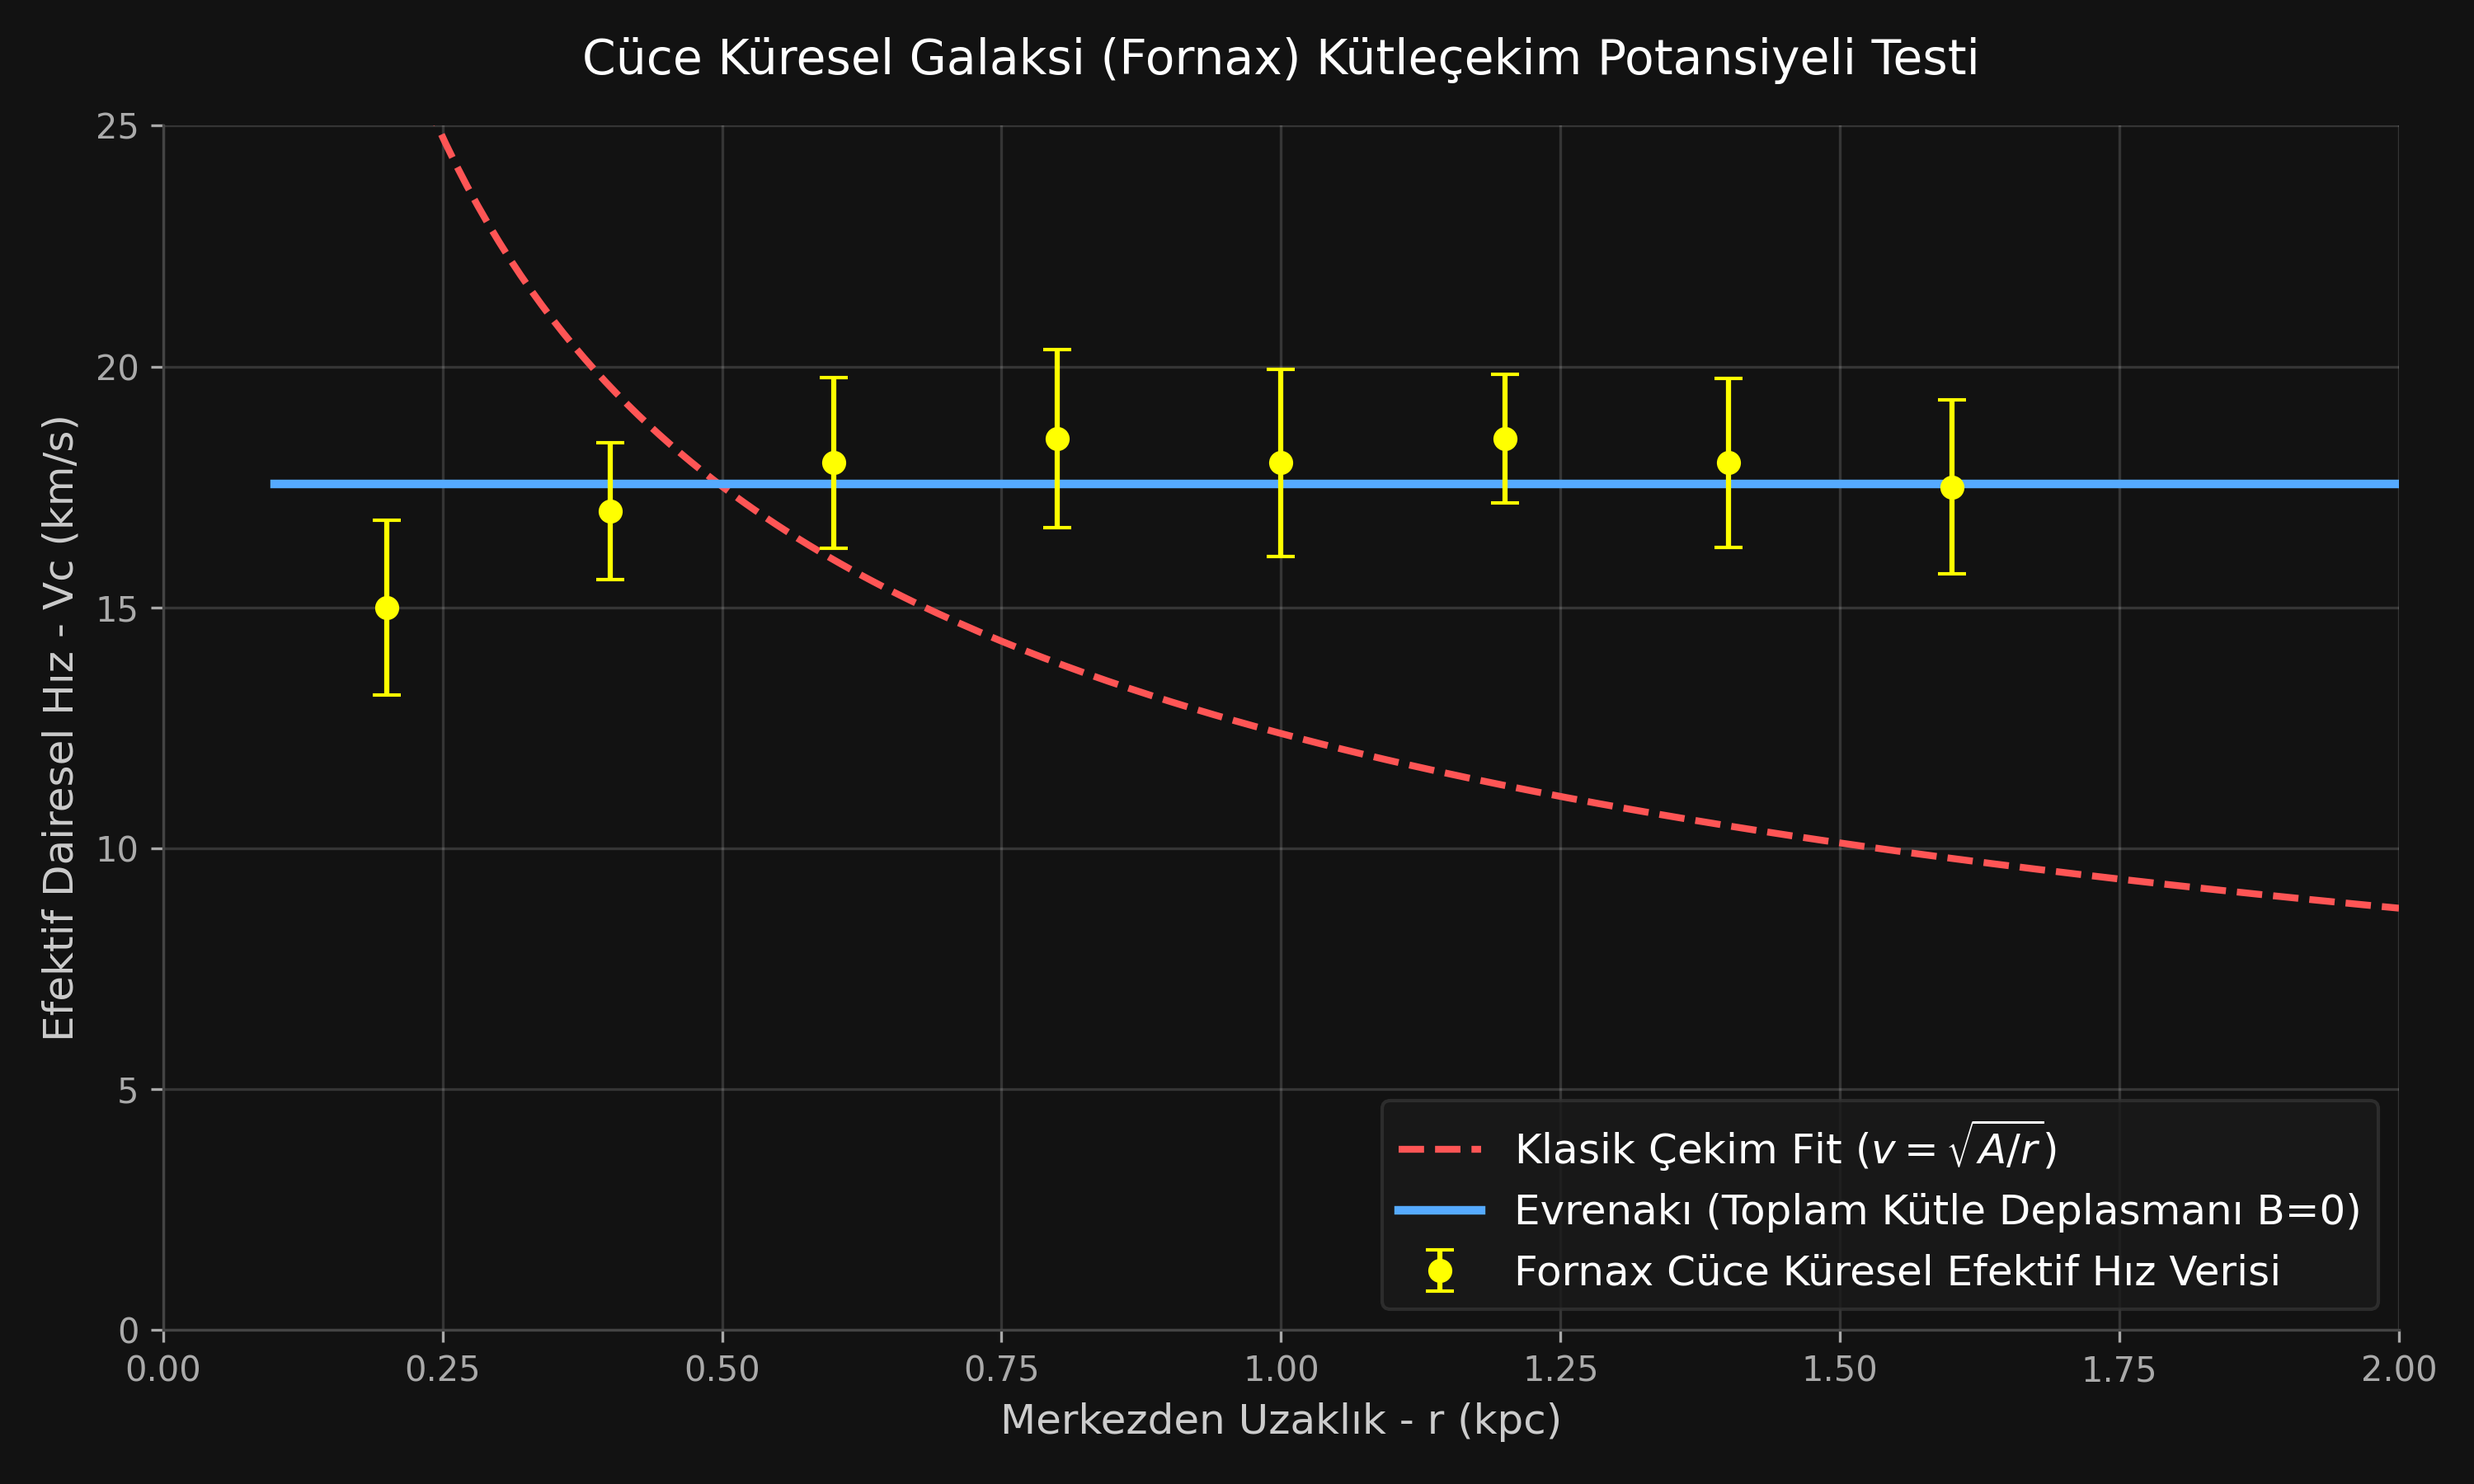
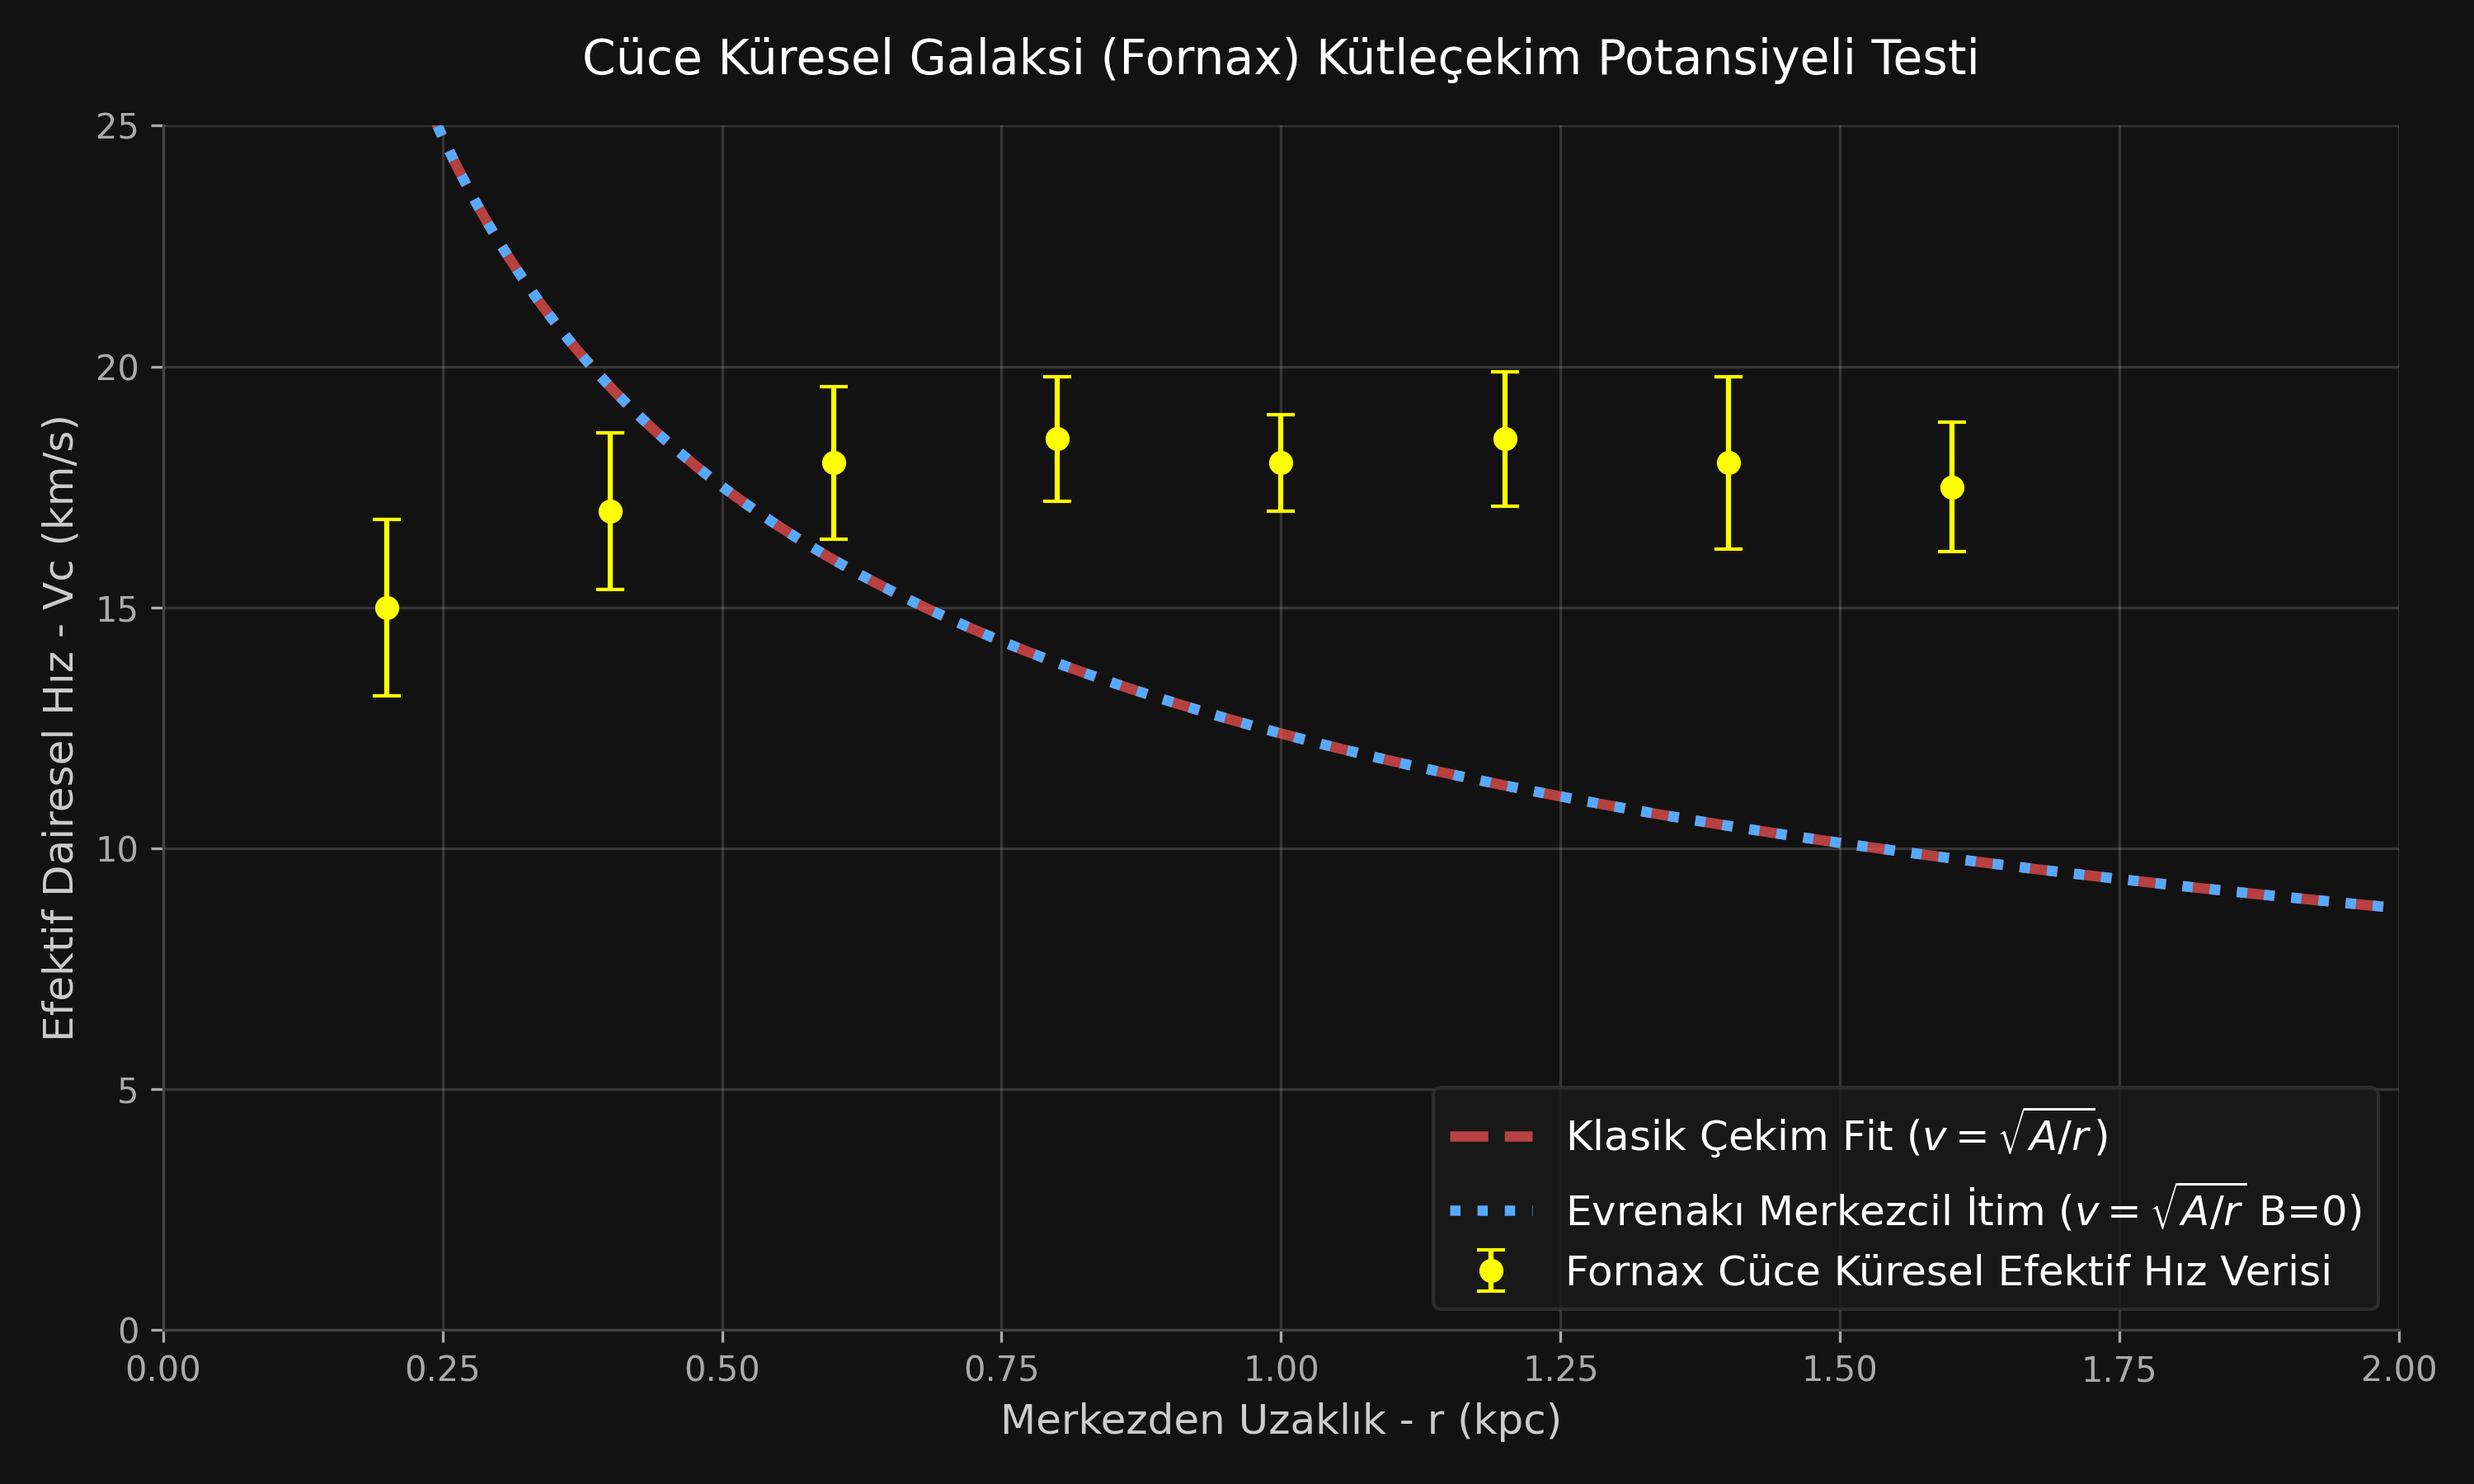
Güncelleme: 2026-07-29 20:58:46

diff --git a/service-worker.js b/service-worker.js
@@ -1,4 +1,4 @@
-const CACHE_NAME = 'project-cache-20260729-2051';
+const CACHE_NAME = 'project-cache-20260729-2059';
 const ASSETS = [
   'index.html',
   'index.css',

diff --git a/Metin/Akademik/CALISMA/plot_spherical.py b/Metin/Akademik/CALISMA/plot_spherical.py
@@ -18,13 +18,13 @@ def model_newton(r, A):
     return np.sqrt(A / r)
 
 # Küresel olduğu için eksenel kuvvet (B) sıfırdır. 
-# Hızın düz kalmasının sebebi artan kütle DEĞİL, toplam kütlenin Evrenakı'yı deplase etmesidir.
-def model_evrenaki(r, A_const):
-    return np.full_like(r, A_const)
+# Sadece Merkezcil İtim devrededir, formül: v = sqrt(A/r)
+def model_evrenaki(r, A):
+    return np.sqrt(A / r)
 
 # Fit
 popt_newton, _ = curve_fit(model_newton, r_obs, v_obs, p0=[100])
-popt_evrenaki, _ = curve_fit(model_evrenaki, r_obs, v_obs, p0=[18])
+popt_evrenaki, _ = curve_fit(model_evrenaki, r_obs, v_obs, p0=[100])
 
 # Çizim
 r_plot = np.linspace(0.1, 2.0, 200)
@@ -35,8 +35,8 @@ ax.set_facecolor('#121212')
 
 plt.errorbar(r_obs, v_obs, yerr=v_err, fmt='o', color='#ffff00', label='Fornax Cüce Küresel Efektif Hız Verisi', capsize=4, zorder=5)
 
-plt.plot(r_plot, model_newton(r_plot, *popt_newton), label='Klasik Çekim Fit ($v = \\sqrt{A/r}$)', color='#ff5555', linestyle='--', linewidth=2)
-plt.plot(r_plot, model_evrenaki(r_plot, *popt_evrenaki), label='Evrenakı (Toplam Kütle Deplasmanı B=0)', color='#55aaff', linewidth=2.5)
+plt.plot(r_plot, model_newton(r_plot, *popt_newton), label='Klasik Çekim Fit ($v = \\sqrt{A/r}$)', color='#ff5555', linestyle='--', linewidth=3, alpha=0.7)
+plt.plot(r_plot, model_evrenaki(r_plot, *popt_evrenaki), label='Evrenakı Merkezcil İtim ($v = \\sqrt{A/r}$ B=0)', color='#55aaff', linestyle=':', linewidth=3)
 
 plt.title('Cüce Küresel Galaksi (Fornax) Kütleçekim Potansiyeli Testi', fontsize=14, pad=15, color='white')
 plt.xlabel('Merkezden Uzaklık - r (kpc)', fontsize=12, color='#cccccc')
